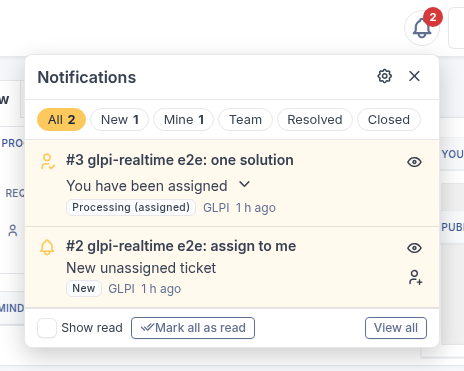
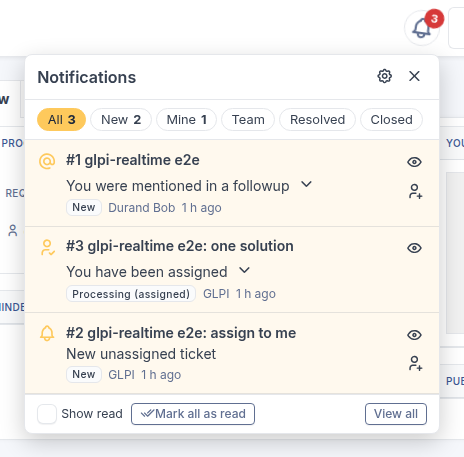
README for 0.6.0: features per item type, mentions, item types, screenshots
The README opens with a table of the features per item type and links to
the documentation; the repository layout moves to "Build and test".
Install step 3 and the 0.6.0 upgrade note give the item type settings and
commands; Configuration explains item types and GLPI's mentions. New
screenshot of a computer edited by a colleague, the bell shows a mention;
troubleshooting covers items without presence after an upgrade.

diff --git a/e2e/screenshots/screenshots.spec.ts b/e2e/screenshots/screenshots.spec.ts
@@ -2,7 +2,7 @@ import { fileURLToPath } from "node:url";
 
 import type { Locator, Page } from "@playwright/test";
 
-import { closeAnswer, expect, login, openAnswer, openTicketAsAllowed, room, test, typeAnswer, waitForFrame } from "../tests/helpers.ts";
+import { closeAnswer, expect, items, login, openAnswer, openTicketAsAllowed, room, test, typeAnswer, waitForFrame } from "../tests/helpers.ts";
 
 const out = (name: string) => fileURLToPath(new URL(`../../docs/img/${name}.png`, import.meta.url));
 
@@ -69,12 +69,40 @@ test("presence, user card, fields lock, writing", async ({ browser }) => {
   await closeAnswer(carol.page, "ITILFollowup"); // ends the shared draft: the tests start clean
 });
 
-test("bell", async ({ browser }) => {
+test("bell, with a mention", async ({ browser }) => {
   const alice = await login(browser, "alice");
+  const bob = await login(browser, "bob");
+  const aliceId = (await waitForFrame(alice, (f) => f.t === "hello", "hello")).user.id;
+  // Bob mentions Alice in a followup.
+  await openTicketAsAllowed(bob);
+  await openAnswer(bob.page, "ITILFollowup");
+  await expect.poll(() => bob.page.evaluate(() => {
+    const area = document.querySelector<HTMLTextAreaElement>("#new-ITILFollowup-block textarea[name='content']");
+    return !!(area && (window as any).tinymce?.get(area.id)?.initialized);
+  })).toBe(true);
+  await bob.page.evaluate((uid) => {
+    const area = document.querySelector<HTMLTextAreaElement>("#new-ITILFollowup-block textarea[name='content']")!;
+    (window as any).tinymce.get(area.id).setContent(`<p><span data-user-mention="true" data-user-id="${uid}">@Alice Martin</span> could you check the toner?</p>`);
+  }, aliceId);
+  await bob.page.locator("#new-ITILFollowup-block button[type=submit][name=add]").click();
+  await waitForFrame(alice, (f) => f.t === "notification" && JSON.stringify(f).includes("mentioned"), "the mention");
   await alice.page.locator(".glpi-rt-bell-button").click();
   const panel = alice.page.locator(".glpi-rt-bell-panel");
-  await expect(panel.locator(".glpi-rt-n").first()).toBeVisible();
+  await expect(panel.locator(".glpi-rt-n").first()).toContainText(/mentioned|mentionné/i);
   await shoot(alice.page, "bell", [panel, alice.page.locator(".glpi-rt-bell-button")], 24);
+});
+
+test("asset: presence and the single editor", async ({ browser }) => {
+  const alice = await login(browser, "alice");
+  const bob = await login(browser, "bob");
+  const id = items.computer;
+  for (const s of [alice, bob]) await s.page.goto(`/front/computer.form.php?id=${id}`);
+  await waitForFrame(alice, (f) => f.t === "presence" && f.room === `Computer:${id}` && f.users.length >= 2, "both");
+  const form = bob.page.locator("form").filter({ has: bob.page.locator(`input[name='id'][value='${id}']`) }).filter({ has: bob.page.locator("[name='update']") });
+  await form.locator("input[name='name']").focus();
+  await expect(alice.page.locator(".glpi-rt-editor")).toContainText(/bob/i);
+  await alice.page.mouse.move(0, 819);
+  await alice.page.screenshot({ path: out("asset"), clip: { x: 0, y: 0, width: 1360, height: 520 } });
 });
 
 test("list", async ({ browser }) => {

diff --git a/README.md b/README.md
@@ -2,32 +2,36 @@
 
 [![CI](https://github.com/0xNath/glpi-realtime/actions/workflows/ci.yml/badge.svg?branch=master)](https://github.com/0xNath/glpi-realtime/actions/workflows/ci.yml)
 
-Optional real-time layer for GLPI 11 and 12. On tickets, changes and problems: presence,
-typing indicators, live updates of the item and its timeline, instant notifications
-(mentions included), a single editor for the fields, one solution at a time, and shared
-answer drafts. On projects, project tasks and assets (any GLPI item can be enabled):
-presence and a single editor of the form.
+Optional real-time layer for GLPI 11 and 12: who is on an item, who is writing, changes
+shown live, one editor at a time, and instant notifications.
 
-- `server/`: WebSocket server in Rust (tokio, axum, fred/Valkey).
-- `plugin/`: GLPI plugin `realtime` (PHP): issues session tokens and per-item grants.
-- `client/`: browser client in TypeScript, bundled into `plugin/public/realtime.js`.
-- `deploy/`: `install.sh` (installs and upgrades the binary and the plugin), and
-  `examples/`: configuration, systemd unit, system user, Valkey, nginx and Apache vhosts.
-- `e2e/`: end-to-end tests in a real Chromium, against your GLPI or a disposable one
-  (`e2e/env/`, containers) ([setup](e2e/README.md)).
-- `docs/`: [protocol](docs/protocol.md), [security model](docs/security.md),
-  [troubleshooting](docs/troubleshooting.md).
+| | Tickets, changes, problems | Projects, project tasks, assets (and any GLPI item) |
+|---|---|---|
+| Presence on the item and on the lists (GLPI's avatars and user card) | ✓ | ✓ |
+| Single editor of the fields, take over from an inactive tab | ✓ | ✓ |
+| GLPI refuses to save a form older than the item | ✓ | ✓ |
+| "Refresh" when someone else changed the item | ✓ | ✓ |
+| Timeline updated live; who is writing a followup, task or solution | ✓ | |
+| Shared answer drafts: follow them live, take them over | ✓ | |
+| One solution at a time (enforced by GLPI) | ✓ | |
+| Bell: queues, read/unread, assume, preferences, sound, desktop notifications | ✓ | project tasks |
+| Mentions ("@name") notified at once | ✓ | |
 
-GLPI works unchanged when the server, Valkey or the plugin is absent.
+GLPI works unchanged when the server, Valkey or the plugin is absent. Documentation:
+[install](#install), [troubleshooting](docs/troubleshooting.md),
+[security model](docs/security.md), [protocol](docs/protocol.md),
+[changes](CHANGELOG.md).
 
 | | |
 |---|---|
 | ![Who else is on the ticket, with GLPI's user card](docs/img/presence.png) | ![The bell: queues, read and unread, assume](docs/img/bell.png) |
-| Who else is on the item, with GLPI's user card on hover | Notifications: queues, read/unread, assume, preferences |
+| Who else is on the item, with GLPI's user card on hover | Notifications, mentions included: queues, read/unread, assume |
 | ![One editor of the fields at a time](docs/img/fields-lock.png) | ![Following a colleague's draft live](docs/img/draft.png) |
 | One editor of the fields at a time | Who is writing, and their draft followed live |
-| ![Presence on the ticket list](docs/img/list.png) | ![The plugin's checks](docs/img/checks.png) |
-| Who is on each row of the lists | Checks of the whole setup, with how to fix |
+| ![Presence on the ticket list](docs/img/list.png) | ![A computer edited by a colleague](docs/img/asset.png) |
+| Who is on each row of the lists | Assets and projects: presence and one editor |
+| ![The plugin's checks](docs/img/checks.png) | |
+| Checks of the whole setup, with how to fix | |
 
 ## Architecture
 
@@ -122,7 +126,7 @@ with the checks of step 6 (errors are expected on a first install, before steps 
 sudo useradd --system --no-create-home --shell /usr/sbin/nologin glpi-realtime
 sudo install -d -m 750 -o root -g glpi-realtime /etc/glpi-realtime
 sudo install -m 640 -o root -g glpi-realtime deploy/examples/config.toml.example /etc/glpi-realtime/config.toml
-sudoedit /etc/glpi-realtime/config.toml      # allowed_origins, listen.group, valkey.url
+sudoedit /etc/glpi-realtime/config.toml      # allowed_origins, listen.group, valkey.url, allowed_itemtypes
 glpi-realtime --config /etc/glpi-realtime/config.toml --check
 
 sudo cp deploy/examples/glpi-realtime.service /etc/systemd/system/
@@ -131,6 +135,8 @@ sudo systemctl daemon-reload && sudo systemctl enable --now glpi-realtime
 ```
 
 - `allowed_origins`: GLPI's address, e.g. `["https://glpi.example.org"]`.
+- `allowed_itemtypes`: the item types with real-time features, the same as the plugin's
+  `enabled_itemtypes` ([Item types](#item-types)); the example lists the defaults.
 - `listen.group` and the unit's `SupplementaryGroups`: the web server's group
   (Debian/Ubuntu: `www-data`, RHEL/Fedora: `nginx` or `apache`), so that only it can open
   the socket (`0660`); add Valkey's socket group to `SupplementaryGroups`.
@@ -225,10 +231,29 @@ causes.
 Download the new release (step 1) and run step 2 again. Configuration is never changed
 by an upgrade; [CHANGELOG.md](CHANGELOG.md) says when you have to edit it, e.g.:
 
-- **0.6.0**: projects and assets are opt-in for existing installs: see the CHANGELOG.
+- **0.6.0**: projects, project tasks and assets get presence and a single editor; an
+  existing install keeps its item types (the checks list what is available). To enable
+  them, on both sides (as the user running GLPI, in GLPI's directory):
+
+  ```bash
+  php bin/console config:set --context=plugin:realtime enabled_itemtypes \
+    '["Ticket","Change","Problem","Project","ProjectTask","Computer","Monitor","NetworkEquipment","Peripheral","Phone","Printer"]'
+  ```
+
+  and the same list in `config.toml`, `[security] allowed_itemtypes`, then restart the
+  server.
 - **0.3.0**: add `"Change", "Problem"` to `security.allowed_itemtypes` in `config.toml`.
 
 ## Build and test
+
+- `server/`: WebSocket server in Rust (tokio, axum, fred/Valkey).
+- `plugin/`: GLPI plugin `realtime` (PHP): issues session tokens and per-item grants.
+- `client/`: browser client in TypeScript, bundled into `plugin/public/realtime.js`.
+- `deploy/`: `install.sh` (installs and upgrades the binary and the plugin), and
+  `examples/`: configuration, systemd unit, system user, Valkey, nginx and Apache vhosts.
+- `e2e/`: end-to-end tests in a real Chromium, against your GLPI or a disposable one
+  (`e2e/env/`, containers) ([setup](e2e/README.md)).
+- `docs/`: protocol, security model, troubleshooting; `docs/img/`: the screenshots.
 
 Requirements: Rust ≥ 1.85, Node ≥ 22.6, `valkey-server` (integration tests),
 `php-legacy` with the `redis` extension (plugin and interop tests).
@@ -267,10 +292,22 @@ with `GLPI_RT_<SECTION>__<KEY>`. Plugin settings (Valkey socket and db, key pref
 name, enabled item types) are in GLPI's configuration table, context `plugin:realtime`,
 and must match the server.
 
-Item types: `enabled_itemtypes` (plugin) and `[security] allowed_itemtypes` (server) list
-the same classes. Tickets, changes and problems get every feature; any other GLPI item
-with a standard form (projects, project tasks, assets, custom assets of GLPI 11+ such as
-`Glpi\CustomAsset\ServerAsset`) gets presence and the single editor of its form.
+### Item types
+
+`enabled_itemtypes` (plugin) and `[security] allowed_itemtypes` (server) list the same
+classes; the checks warn while they differ. Default: tickets, changes, problems, projects,
+project tasks, computers, monitors, network devices, peripherals, phones and printers.
+Tickets, changes and problems get every feature; any other GLPI item with a standard form
+gets presence and the single editor of its form, custom assets of GLPI 11+ included, by
+class (e.g. `Glpi\CustomAsset\ServerAsset`).
+
+### Mentions
+
+Mentions are GLPI's: typing "@" in a description, followup, task, solution or approval
+offers the users to mention, if the author's profile allows it (Administration >
+Profiles > a profile > Assistance, "Mentions configuration"). GLPI makes the mentioned
+users observers and mails them; the bell tells them at once, unless they turned off
+"When I am mentioned (@)" in its preferences.
 
 ## Translations
 

diff --git a/docs/troubleshooting.md b/docs/troubleshooting.md
@@ -59,6 +59,7 @@ php bin/console plugin:activate realtime
 
 | Symptom | Cause | Fix |
 |---|---|---|
+| Nobody shown on a computer, project or other item (tickets work) | Its type is not enabled: an upgraded install keeps its item types | The "Item types" check lists what is available, with the plugin command and the `config.toml` line to enable them (both sides, then restart the server). |
 | Someone stays shown after closing their tab | The browser did not close the connection (sleep, network loss) | They disappear after `limits.idle_timeout_secs` (90 s by default). |
 | A self-service user sees support agents' names | The entity does not anonymize them | GLPI's entity setting "Anonymize support agents": the real-time layer applies it too. |
 
